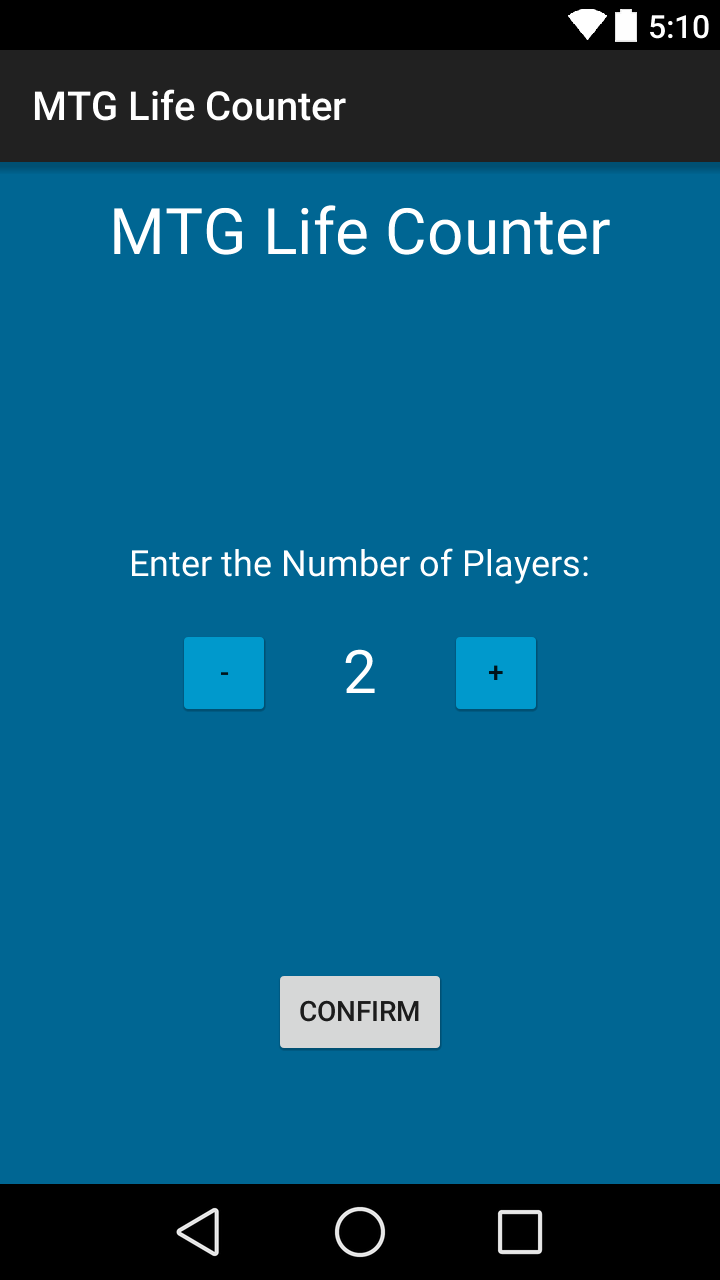
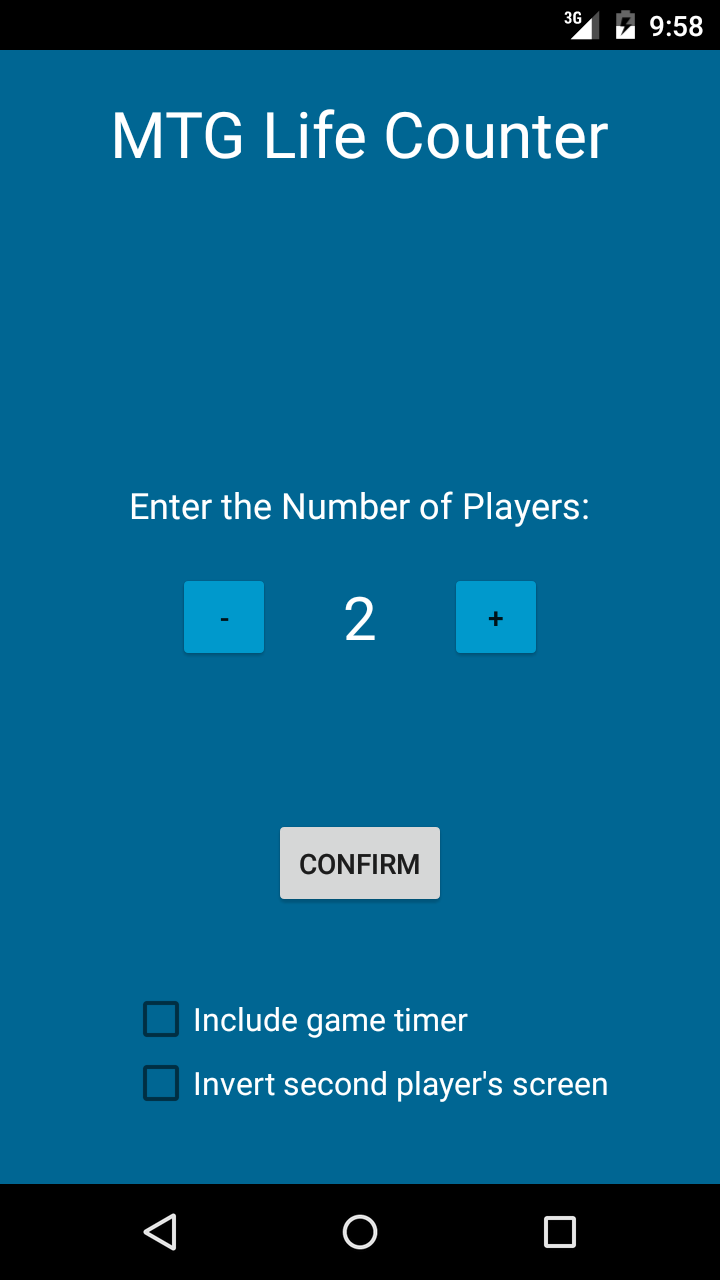
README update
Updated README file to include a description of the function of the
inverted second player option, as well as some screenshots of how the
activity looks afterwards

diff --git a/app/src/main/java/com/example/tony/mtglifecounter/MainActivity.java b/app/src/main/java/com/example/tony/mtglifecounter/MainActivity.java
@@ -85,6 +85,7 @@ public class MainActivity extends ActionBarActivity{
         Intent three_player = new Intent(getApplicationContext(), ThreePlayerScreen.class);
         Intent four_player = new Intent(getApplicationContext(), FourPlayerScreen.class);
 
+        //Check if the "Invert second players screen" was selected
         if (invertSecondPlayer.isChecked()){
             dbManager.updateState("invertPlayerTwo", "true");
         }

diff --git a/README.md b/README.md
@@ -2,7 +2,7 @@
 
 The MTG Life Counter is an Android app that allows people to easily keep track of life totals when playing "Magic the Gathering". Functionality includes support for up to 4 players, regular life total & poison counter tracker, end screen when a player loses, and user customized color schemes.
 
-###Screenshots
+###General Screenshots
 
 Starting screen, settings screen, life totals screen, and poison counter screen (respectively):
 
@@ -16,9 +16,18 @@ To use the app, from the main activity, the user will need to select the number 
 
 Pressing the Reset button will change all life totals back to "20" and all poison counters to "0". By pressing the Settings button the user will be taken to the Settings activity where they can change the names of the various players.
 
+###Inverted Second Player
+
+Below are images for when the "Invert second player's screen" option is selected:
+
+<p align="center">
+  <img src="https://github.com/markviola/android-mtg-life-counter/blob/master/images/both_inverted_screens.jpg?raw=true" alt="Player Screens"/>
+</p>
+
+The inverted screen is used only for two player (the option disappears when two players is not selected). This option makes it easier for the user's opponent to keep track of their own life total and poison counters since their player screen is orient in their direction. 
+
 
 ###To-do List:
-* Include option where the orientation of the player screen is rotated 180 degrees so that in two player mode the opponent can change the total themself
 * Consolidate player life total and poison counter fragments so there is only one standard fragment that can be used for all numbers of players
 * Add activity where the user can see a record of life total changes (Use services to check length between inputs?)
 * Add feature for when a player gets eliminated, it takes the user to a defeat screen then goes to a new activity with [player # - 1] people
